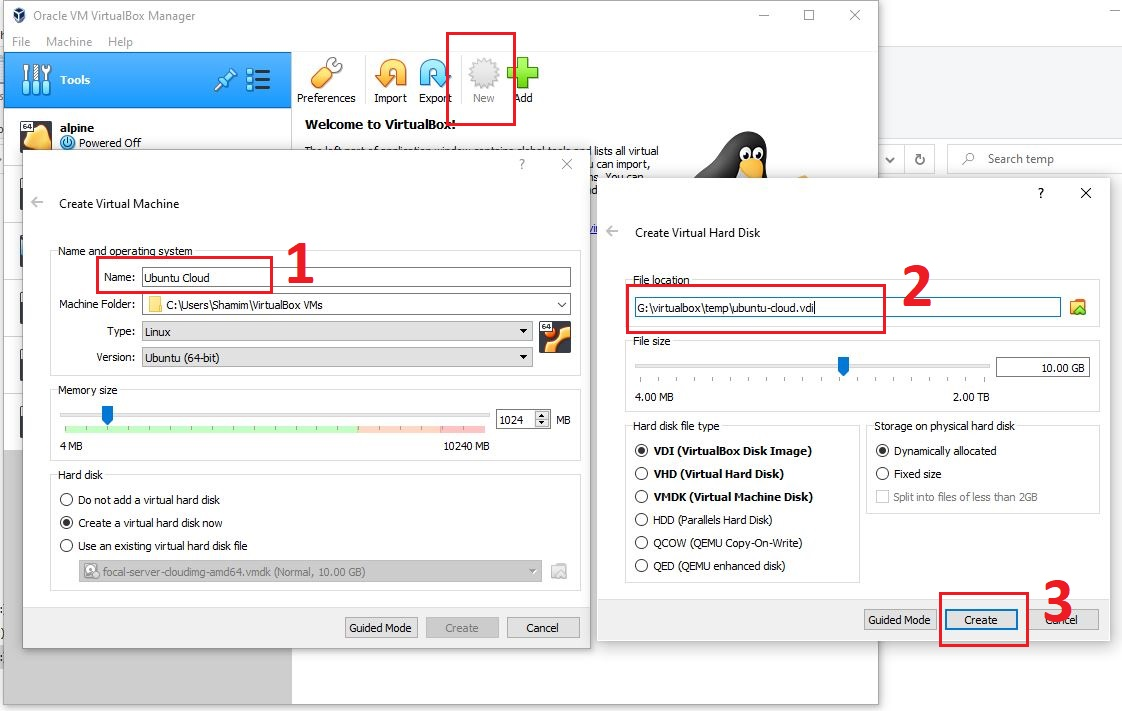
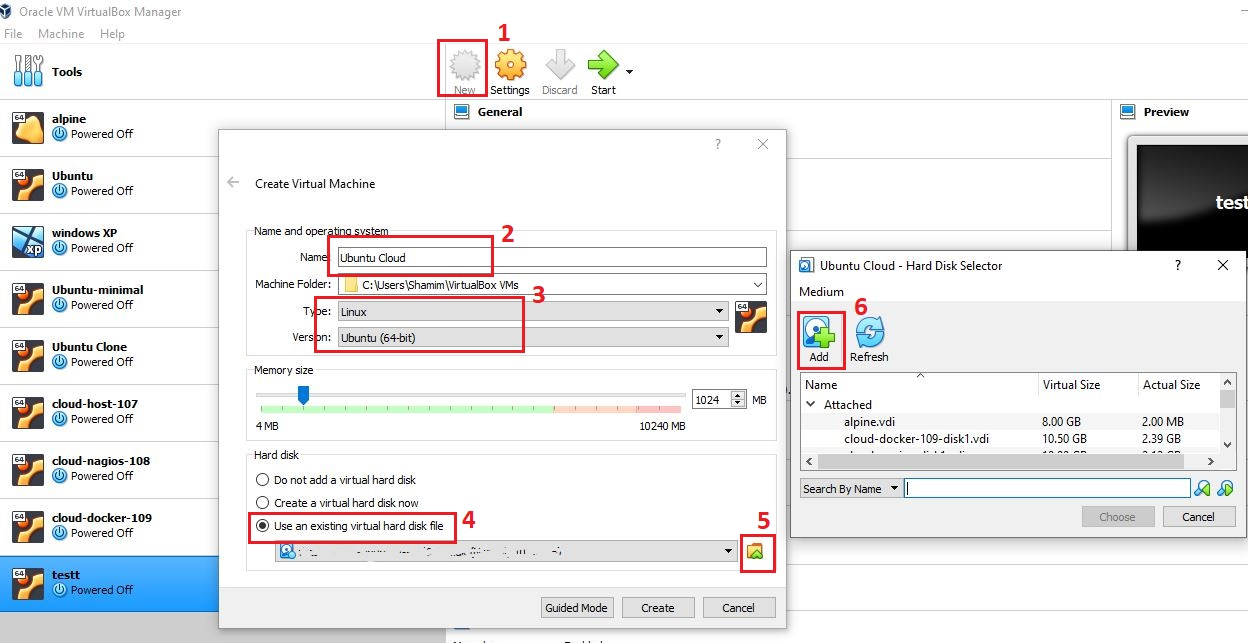
update guide

Changed region(s): [[0.0, 0.0, 1.0, 1.0], [0.7487, 0.4977, 0.7799, 0.5288]]

diff --git a/Ubuntu-Cloud-for-oracle-virtualBox.md b/Ubuntu-Cloud-for-oracle-virtualBox.md
@@ -43,36 +43,19 @@ in my case the command will be ```VBoxManage clonehd --format VDI "G:\virtualbox
 
 Open ```Oracle VirtualBox Manager``` click on ```New``` give it a name anything ( i gave it ```Ubuntu cloud```) 
 
-Now click on ```create``` it will ask you to locate your VDI file location..
-locate the same location where you have saved your Vdi file and give it new name ```ubuntu-cloud.vdi``` 
-(eg. location looks like ```"G:\virtualbox\temp\ubuntu-cloud.vdi"```)
+Now select type ```linux``` and version ```Ubuntu (64bit)``` then select ```Use and existing virtual hard disk file``` then ```Choose a virtual disk``` and select your converted ```focal-server-cloudimg-amd64.vdi``` file
+
+Now click on ```create``` 
 
 <p align="left"> <img src="https://github.com/shamim4s/linux-guide/raw/master/assets/cloud/4newvm.JPG" /> </p>
+<p align="left"> <img src="https://github.com/shamim4s/linux-guide/raw/master/assets/cloud/5sel-cloud-storage.jpg" /> </p>
 
-## Now go to your vdi file loacation (G:\virtualbox\temp) and do the following steps:
-
-delete ```ubuntu-cloud.vdi``` file that location
-
-<p align="left"> <img src="https://github.com/shamim4s/linux-guide/raw/master/assets/cloud/6del.jpg" /> </p>
-
-## Now you need to delete your ubuntu-cloud Vdi file to Oracle virtual Machine..
-
-Open ```Oracle VirtualBox Manager``` click on ```Ubuntu cloud``` Click on```Settings``` Click ```Storage```, then select ```ubuntu-cloud.vdi``` right click and Delete.
-
-<p align="left"> <img src="https://github.com/shamim4s/linux-guide/raw/master/assets/cloud/7-1del-cloud-storage.jpg" /> </p>
-
-
-## Now you need to add your converted Vdi file..
-
-Click on ```Adds hard disk``` click ```Add``` locate your Vdi location and select ```focal-server-cloudimg-amd64.vdi```
-
-<p align="left"> <img src="https://github.com/shamim4s/linux-guide/raw/master/assets/cloud/7-2add-cloud-storage.jpg" /> </p>
-<p align="left"> <img src="https://github.com/shamim4s/linux-guide/raw/master/assets/cloud/7-3sel-cloud-storage.jpg" /> </p>
 
 
 ## Now need to select ```tinycorelinux.iso``` as Optical Disk
 
-select ```Empty``` drive click on setect ```Optical Disk```  select ```Chosse select Disk file```  then select ```tinycorelinux.iso``` file from your downloaded location..
+
+Open ```Oracle VirtualBox Manager``` click on ```Ubuntu cloud``` Click on```Settings``` Click ```Storage```, select ```Empty``` drive click on setect ```Optical Disk```  select ```Chosse select Disk file```  then select ```tinycorelinux.iso``` file from your downloaded location..
 
 <p align="left"> <img src="https://github.com/shamim4s/linux-guide/raw/master/assets/cloud/8sel-tiny.jpg" /> </p>
 <p align="left"> <img src="https://github.com/shamim4s/linux-guide/raw/master/assets/cloud/9sel-tiny.jpg" /> </p>
